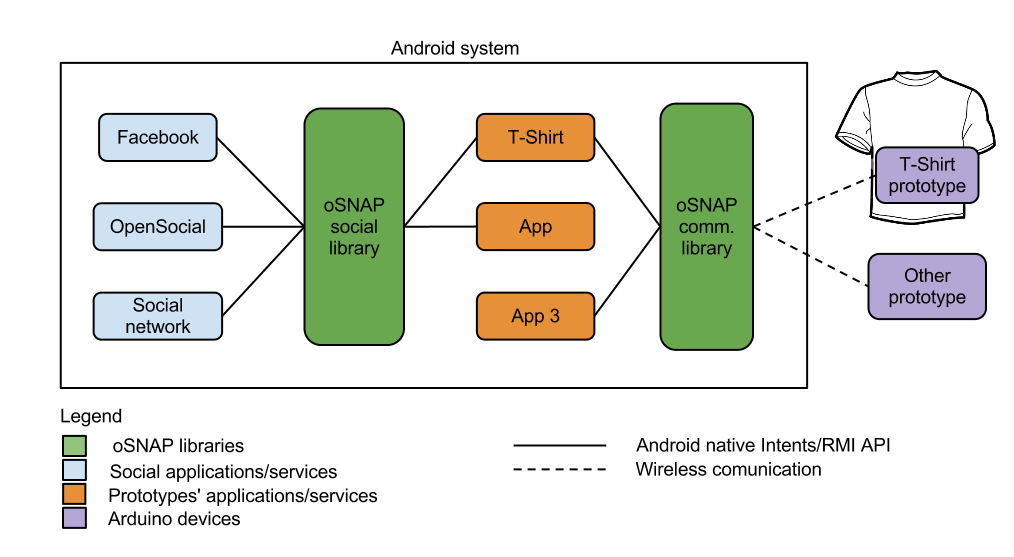
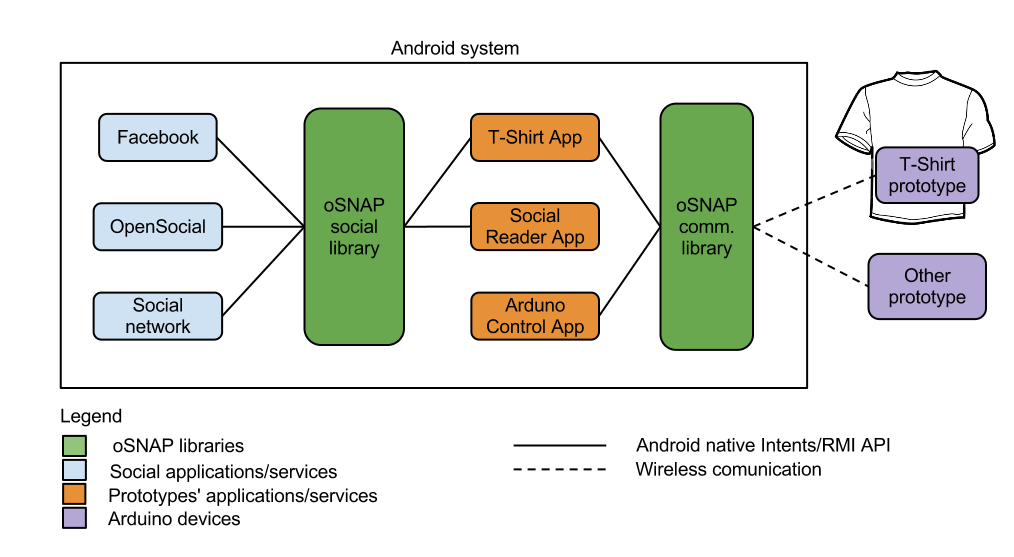
Updated architecture overview

diff --git a/documentation/report/files/architecture.tex b/documentation/report/files/architecture.tex
@@ -13,7 +13,7 @@ The system consists of:
 	\item[Prototypes:] T-Shirt prototype, other prototypes
 \end{description}
 
-The figure \ref{fig:design-toplevel} illustrates the overall system architecture.
+The figure \ref{fig:design-toplevel} illustrates the overall system architecture, demonstration 3 Applications that use only the communication library, only the social service library, or both.
 
 \begin{figure}[h!]
 \centering \includegraphics[scale=0.35]{img/design-toplevel.png}
